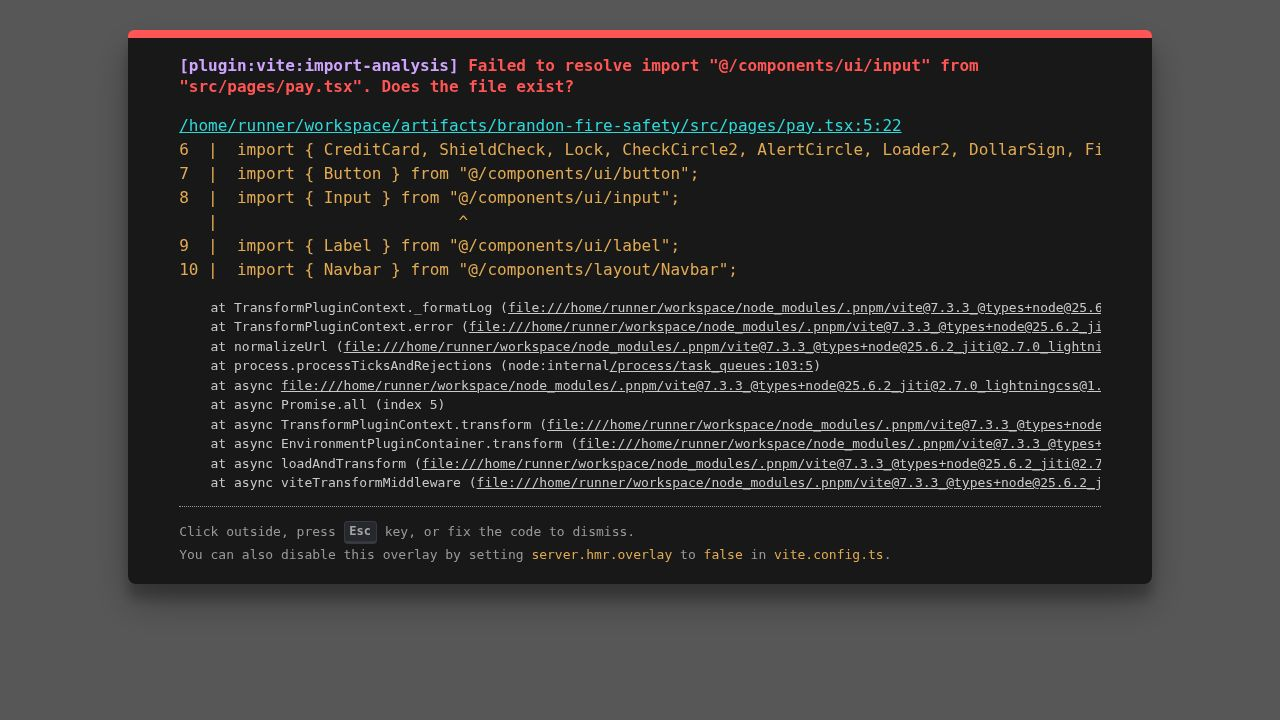
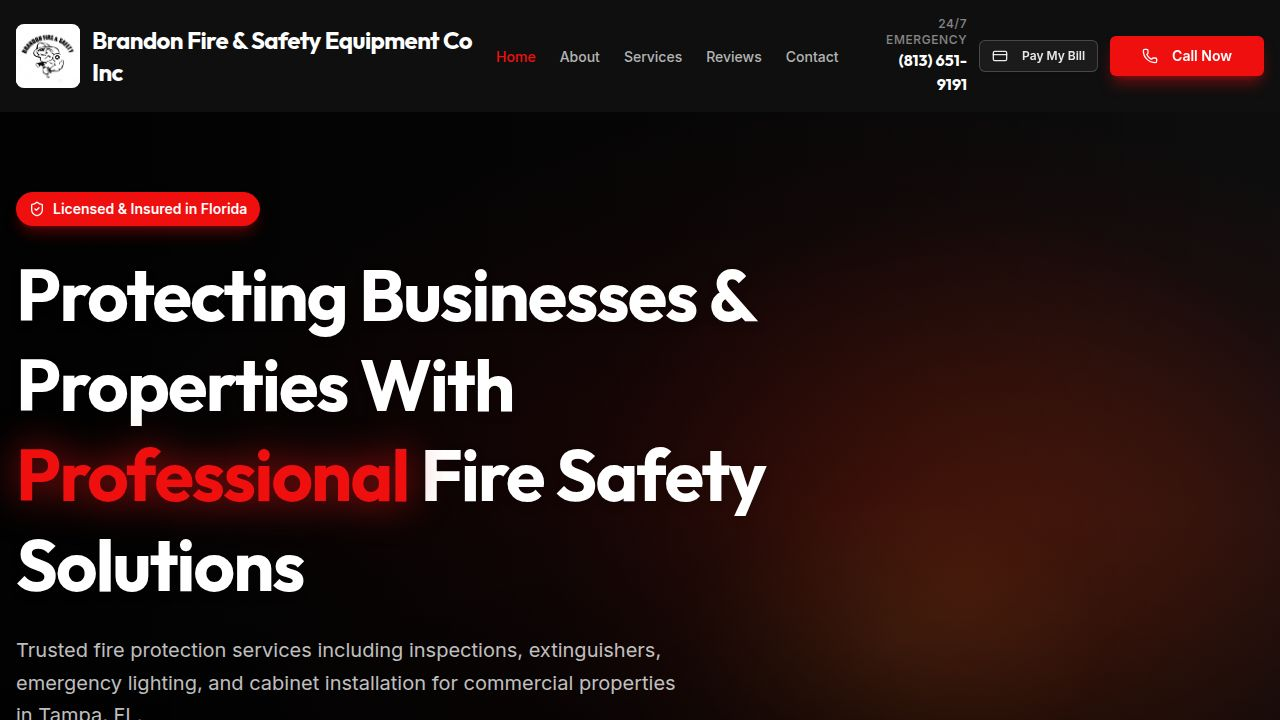
Update configuration to ensure successful deployment on Netlify
Adjust Vite configuration to use fallback values for PORT and BASE_PATH, ensuring successful builds on Netlify by removing strict environment variable requirements.

Replit-Commit-Author: Agent
Replit-Commit-Session-Id: 8e06048d-8416-46de-9333-78919ad001f5
Replit-Commit-Checkpoint-Type: full_checkpoint
Replit-Commit-Event-Id: a4b42079-b6e8-4e7c-8cff-6b013a804562
Replit-Commit-Screenshot-Url: https://storage.googleapis.com/screenshot-production-us-central1/10456064-77dc-4ba5-9df5-94f75b3b101e/8e06048d-8416-46de-9333-78919ad001f5/Oktx8N1
Replit-Helium-Checkpoint-Created: true

diff --git a/artifacts/brandon-fire-safety/vite.config.ts b/artifacts/brandon-fire-safety/vite.config.ts
@@ -4,27 +4,8 @@ import tailwindcss from "@tailwindcss/vite";
 import path from "path";
 import runtimeErrorOverlay from "@replit/vite-plugin-runtime-error-modal";
 
-const rawPort = process.env.PORT;
-
-if (!rawPort) {
-  throw new Error(
-    "PORT environment variable is required but was not provided.",
-  );
-}
-
-const port = Number(rawPort);
-
-if (Number.isNaN(port) || port <= 0) {
-  throw new Error(`Invalid PORT value: "${rawPort}"`);
-}
-
-const basePath = process.env.BASE_PATH;
-
-if (!basePath) {
-  throw new Error(
-    "BASE_PATH environment variable is required but was not provided.",
-  );
-}
+const port = Number(process.env.PORT) || 5173;
+const basePath = process.env.BASE_PATH || "/";
 
 export default defineConfig({
   base: basePath,